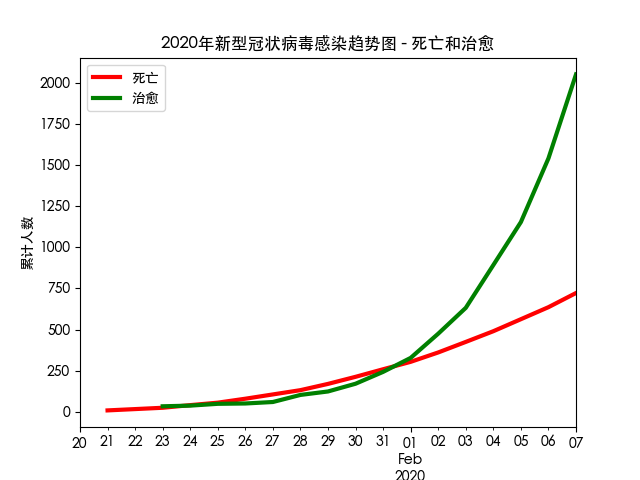
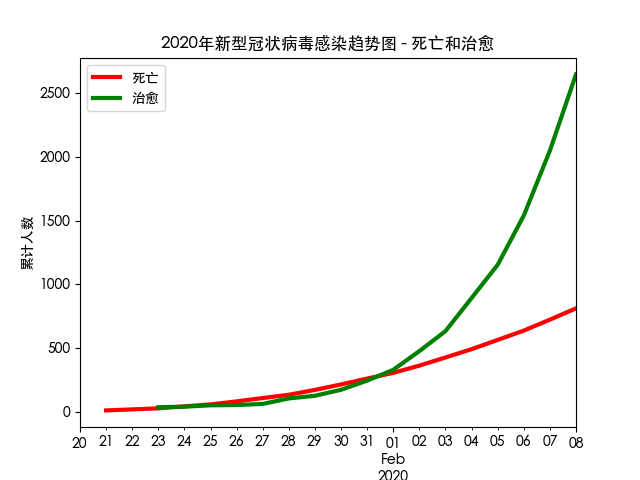
Update for Feb 8 data

diff --git a/README.md b/README.md
@@ -5,7 +5,7 @@
 
 这是根据卫建委发布的官方数据制作的每日疫情发展趋势图。每日830~930之间根据卫建委发布的最新疫情通报更新。
 
-- 更新时间: **`08:30, 02-08`**
+- 更新时间: **`08:30, 02-09`**
 - [网页地址](https://zire.github.io/pandemic2020/)
 - [Github Repo地址](https://github.com/zire/pandemic2020)
 - 数据来源：[中华人民共和国国家卫生健康委员会卫生应急办公室](http://www.nhc.gov.cn/)
@@ -33,6 +33,7 @@
 
 |    |   日期 |    接触 |    观察 |   疑似 |   确诊 |   重症 |   死亡 |   治愈 |
 |---:|-------:|--------:|--------:|-------:|-------:|-------:|-------:|-------:|
+| 19 |  02/08 | 371,905 | 188,183 | 28,942 | 33,738 |  6,188 |    811 |  2,649 |
 | 18 |  02/07 | 345,498 | 189,660 | 27,657 | 31,774 |  6,101 |    722 |  2,050 |
 | 17 |  02/06 | 314,028 | 186,045 | 26,359 | 31,161 |  4,821 |    636 |  1,540 |
 | 16 |  02/05 | 282,813 | 186,345 | 24,702 | 28,018 |  3,859 |    563 |  1,153 |
@@ -57,6 +58,7 @@
 
 |    |   日期 |   接触 |   观察 |   疑似 |   确诊 |   重症 |   死亡 |   治愈 |
 |---:|-------:|-------:|-------:|-------:|-------:|-------:|-------:|-------:|
+| 19 |  02/08 | 26,407 | -1,477 |  1,285 |  1,964 |     87 |     89 |    599 |
 | 18 |  02/07 | 31,470 |  3,615 |  1,298 |    613 |  1,280 |     86 |    510 |
 | 17 |  02/06 | 31,215 |   -300 |  1,657 |  3,143 |    962 |     73 |    387 |
 | 16 |  02/05 | 30,659 |    790 |  1,442 |  3,694 |    640 |     73 |    261 |
@@ -81,6 +83,7 @@
 
 |    |   日期 |   接触 |   观察 |   疑似 |   确诊 |   重症 |   死亡 |   治愈 |
 |---:|-------:|-------:|-------:|-------:|-------:|-------:|-------:|-------:|
+| 19 |  02/08 |   7.6% |  -0.8% |   4.6% |   6.2% |   1.4% |  12.3% |  29.2% |
 | 18 |  02/07 |  10.0% |   1.9% |   4.9% |   2.0% |  26.6% |  13.5% |  33.1% |
 | 17 |  02/06 |  11.0% |  -0.2% |   6.7% |  11.2% |  24.9% |  13.0% |  33.6% |
 | 16 |  02/05 |  12.2% |   0.4% |   6.2% |  15.2% |  19.9% |  14.9% |  29.3% |
@@ -120,12 +123,8 @@
 
 ## 数据来源
 
-- [截至2月7日24时新型冠状病毒肺炎疫情最新情况](http://www.nhc.gov.cn/xcs/yqtb/202002/6c305f6d70f545d59548ba17d79b8229.shtml)
-- [截至2月6日24时新型冠状病毒肺炎疫情最新情况](http://www.nhc.gov.cn/xcs/yqtb/202002/3db09278e3034f289841300ed09bd0e1.shtml)
-- [截至2月5日24时新型冠状病毒感染的肺炎疫情最新情况](http://www.nhc.gov.cn/xcs/yqtb/202002/6b1e029fd22c484281cbc5e73dae98fc.shtml)
-- [截至2月4日24时新型冠状病毒感染的肺炎疫情最新情况](http://www.nhc.gov.cn/xcs/yqtb/202002/17a03704a99646ffad6807bc806f37a4.shtml)
-- [截至2月3日24时新型冠状病毒感染的肺炎疫情最新情况](http://www.nhc.gov.cn/xcs/yqtb/202002/bfebf84fb88248e4a4eba61295e5882b.shtml)
-- [截至2月2日24时新型冠状病毒感染的肺炎疫情最新情况](http://www.nhc.gov.cn/xcs/yqfkdt/202002/24a796819bf747bd8b945384517e9a51.shtml)
+- [截至2月8日24时新型冠状病毒肺炎疫情最新情况](http://www.nhc.gov.cn/xcs/yqfkdt/202002/4f28ab5ca87d42d284833df3ccc8d45a.shtml)
+- [截至2月2日24时新型冠状病毒感染的肺炎疫情最新情况](http://www.nhc.gov.cn/xcs/yqtb/202002/24a796819bf747bd8b945384517e9a51.shtml)
 - [截至2月1日24时新型冠状病毒感染的肺炎疫情最新情况](http://www.nhc.gov.cn/xcs/yqtb/202002/d5c495da742f4739b7f99339c3bd032f.shtml)
 - [截至1月31日24时新型冠状病毒感染的肺炎疫情最新情况](http://www.nhc.gov.cn/xcs/yqtb/202002/84faf71e096446fdb1ae44939ba5c528.shtml)
 - [截至1月30日24时新型冠状病毒感染的肺炎疫情最新情况](http://www.nhc.gov.cn/xcs/yqtb/202001/a53e6df293cc4ff0b5a16ddf7b6b2b31.shtml)
